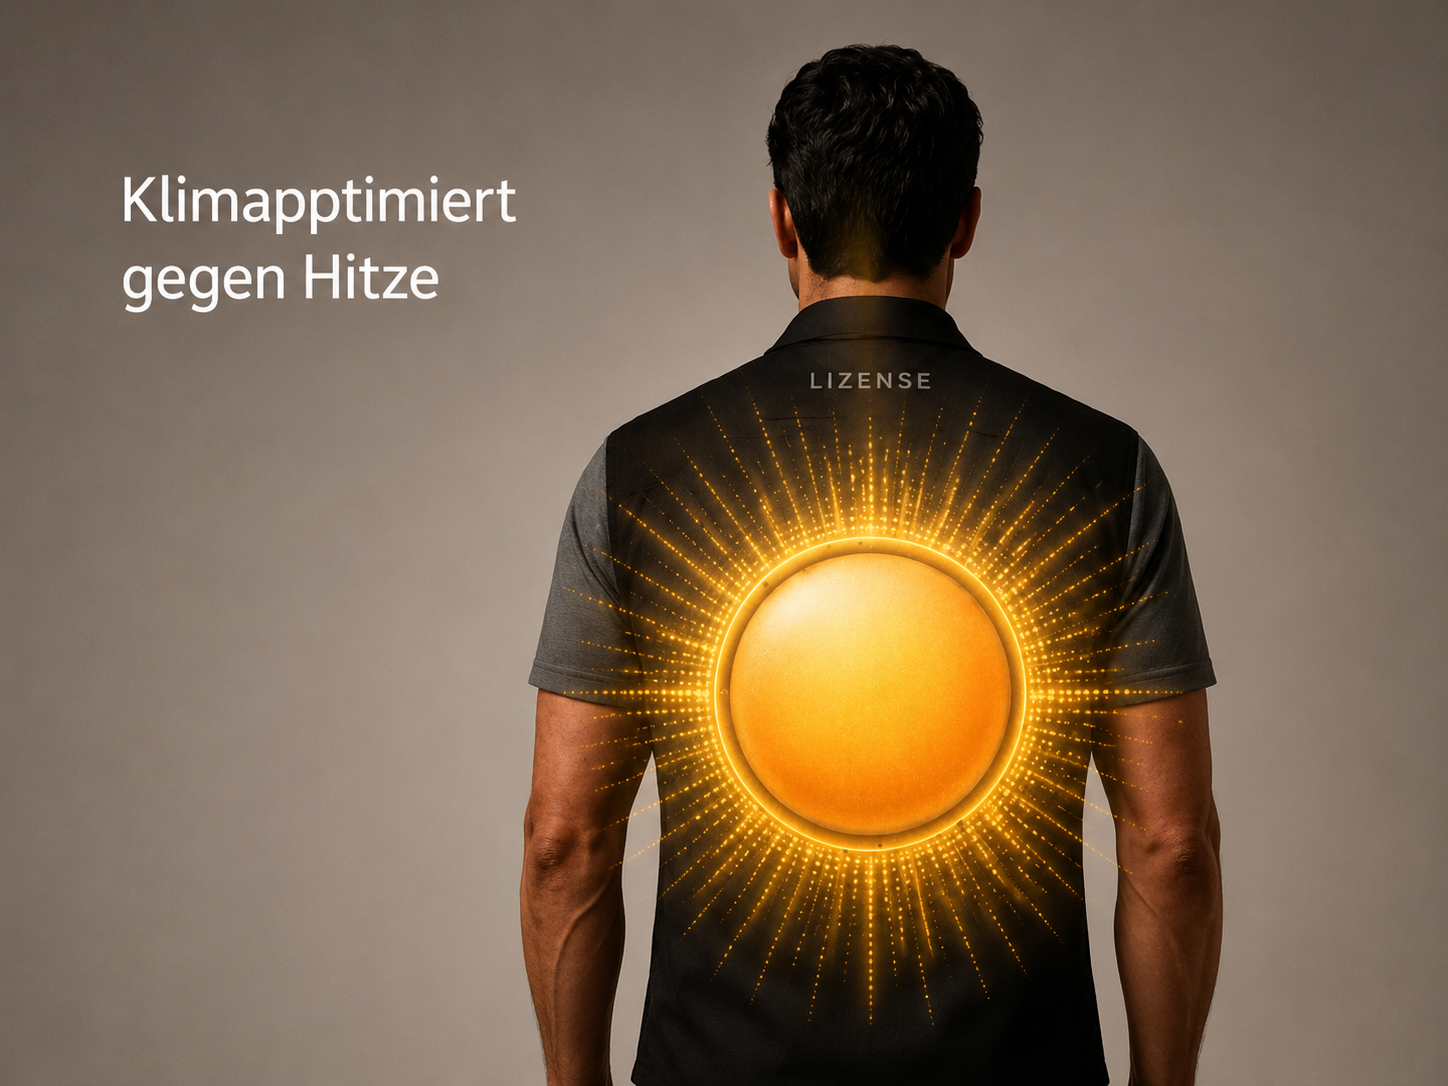
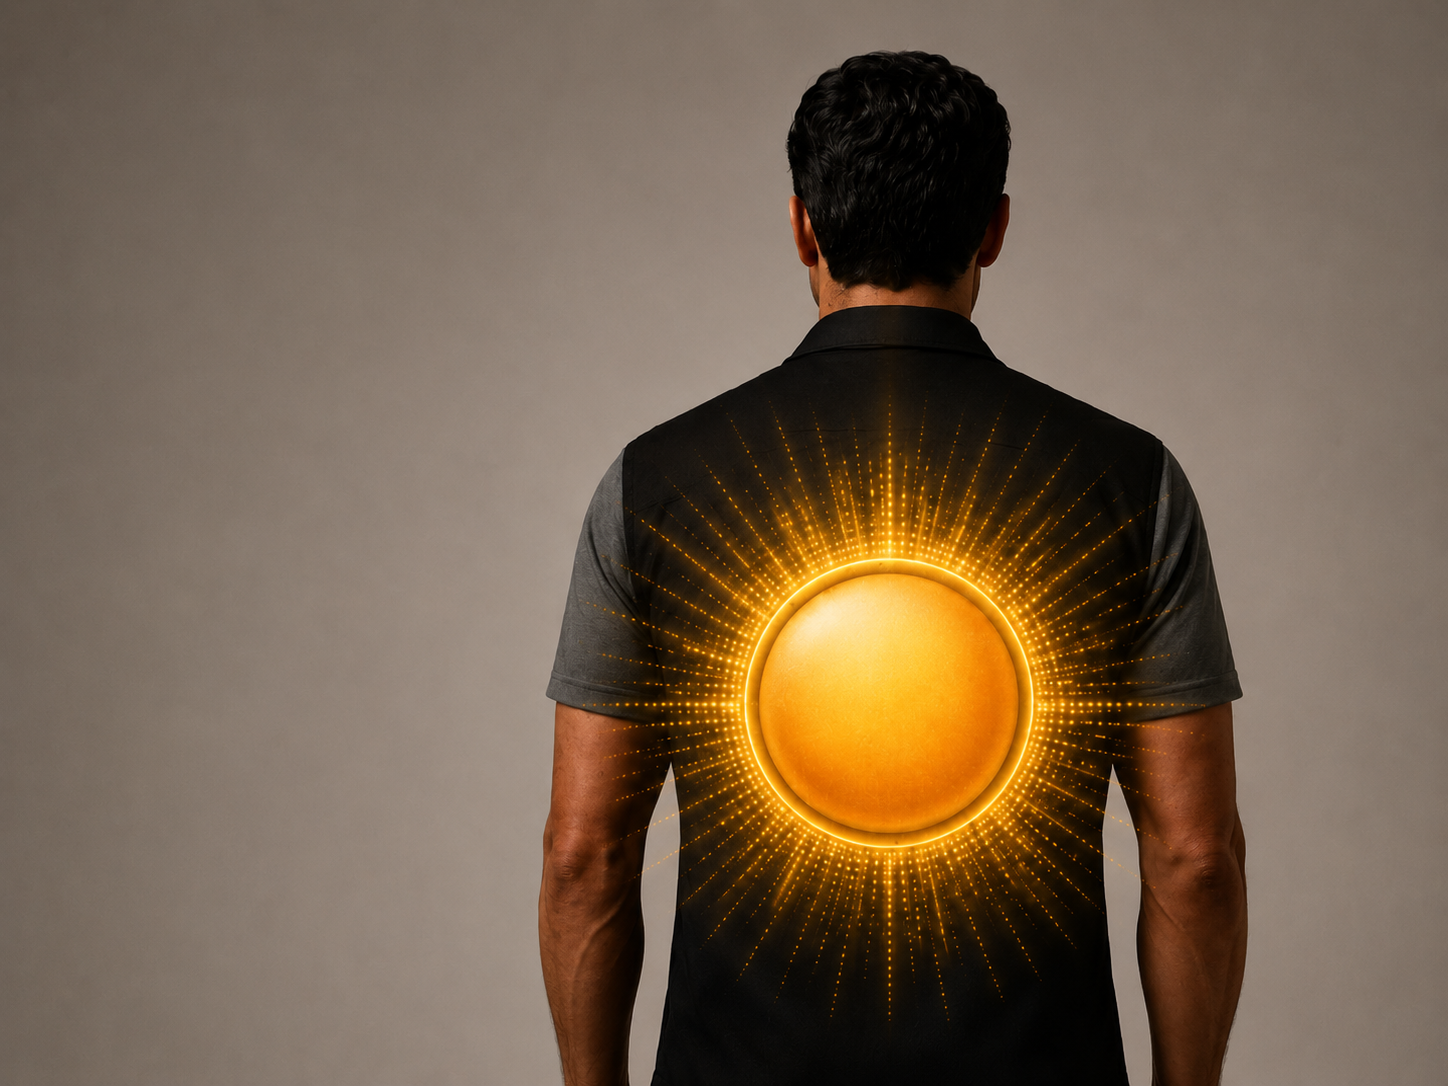
fixed image issue with translation

Changed region(s): [[0.3419, 0.0304, 0.8702, 1.0], [0.0622, 0.1519, 0.3729, 0.2127], [0.0622, 0.2431, 0.3108, 0.3039]]

diff --git a/styles.css b/styles.css
@@ -259,6 +259,63 @@ figure {
   object-position: center;
 }
 
+.sustainability-panel,
+.heat-panel {
+  isolation: isolate;
+}
+
+.sustainability-copy,
+.benefit-copy {
+  position: absolute;
+  top: clamp(18px, 4vw, 48px);
+  left: clamp(18px, 4vw, 54px);
+  z-index: 1;
+  display: grid;
+  gap: clamp(5px, 0.9vw, 12px);
+  width: min(36%, 270px);
+  color: #fffaf4;
+  text-shadow: 0 2px 18px rgba(23, 17, 15, 0.58);
+  text-transform: uppercase;
+}
+
+.heat-copy {
+  right: clamp(18px, 4vw, 54px);
+  left: auto;
+  width: min(42%, 300px);
+}
+
+.sustainability-copy::before,
+.benefit-copy::before {
+  content: "";
+  position: absolute;
+  inset: -18px -16px -20px;
+  z-index: -1;
+  background:
+    linear-gradient(135deg, rgba(23, 17, 15, 0.74), rgba(90, 6, 16, 0.24)),
+    rgba(23, 17, 15, 0.18);
+  border: 1px solid rgba(255, 250, 244, 0.34);
+  box-shadow: 0 20px 50px rgba(23, 17, 15, 0.24);
+  backdrop-filter: blur(8px);
+}
+
+.sustainability-copy__kicker,
+.benefit-copy__kicker {
+  color: #f0c76e;
+  font-family: Georgia, "Times New Roman", serif;
+  font-size: clamp(0.88rem, 1.9vw, 1.52rem);
+  font-style: italic;
+  font-weight: 700;
+  line-height: 0.95;
+  overflow-wrap: anywhere;
+}
+
+.sustainability-copy__stat,
+.benefit-copy__stat {
+  font-size: clamp(1.05rem, 2.85vw, 2.34rem);
+  font-weight: 950;
+  line-height: 0.92;
+}
+
 .campaign-slogan {
   display: grid;
   place-items: center;
@@ -607,6 +664,17 @@ figure {
 
   .benefit-panel {
     aspect-ratio: 4 / 3;
+  }
+
+  .sustainability-copy,
+  .benefit-copy {
+    top: clamp(18px, 6vw, 34px);
+    left: clamp(18px, 6vw, 34px);
+    width: min(42%, 230px);
+  }
+
+  .heat-copy {
+    right: auto;
   }
 
   .benefit-panel + .benefit-panel {

diff --git a/index.html b/index.html
@@ -58,11 +58,19 @@
         </figure>
 
         <section class="climate-panels" aria-label="Sustainability and climate benefits" data-i18n-aria-label="home.climate.aria">
-          <figure class="benefit-panel">
+          <figure class="benefit-panel sustainability-panel">
             <img src="images/sustainability.png" alt="Back view of Say Jackless shirt with earth artwork" data-i18n-alt="home.sustainability.alt">
+            <figcaption class="sustainability-copy">
+              <span class="sustainability-copy__kicker" data-i18n="home.sustainability.copy.kicker">Nachhaltigkeit</span>
+              <span class="sustainability-copy__stat" data-i18n="home.sustainability.copy.stat">25% weniger Stoff!</span>
+            </figcaption>
           </figure>
-          <figure class="benefit-panel">
+          <figure class="benefit-panel heat-panel">
             <img src="images/climate.png" alt="Back view of Say Jackless shirt with glowing sun artwork" data-i18n-alt="home.climate.alt">
+            <figcaption class="benefit-copy heat-copy">
+              <span class="benefit-copy__kicker" data-i18n="home.climate.copy.kicker">Klimaoptimiert</span>
+              <span class="benefit-copy__stat" data-i18n="home.climate.copy.stat">gegen Hitze</span>
+            </figcaption>
           </figure>
         </section>
 

diff --git a/script.js b/script.js
@@ -38,8 +38,12 @@ const translations = {
     "home.climate.aria": "Nachhaltigkeits- und Klimavorteile",
     "home.sustainability.alt":
       "Rückansicht eines Say Jackless Shirts mit Erdmotiv",
+    "home.sustainability.copy.kicker": "Nachhaltigkeit",
+    "home.sustainability.copy.stat": "25% weniger Stoff!",
     "home.climate.alt":
       "Rückansicht eines Say Jackless Shirts mit leuchtendem Sonnenmotiv",
+    "home.climate.copy.kicker": "Klimaoptimiert",
+    "home.climate.copy.stat": "gegen Hitze",
     "home.slogan": "Lizenz für a better clima.",
     "footer.brand": "License Say Jackless",
     "footer.campaign": "Klimabewusste Menswear-Kampagne.",
@@ -144,8 +148,12 @@ const translations = {
     "home.climate.aria": "Sustainability and climate benefits",
     "home.sustainability.alt":
       "Back view of Say Jackless shirt with earth artwork",
+    "home.sustainability.copy.kicker": "Sustainability",
+    "home.sustainability.copy.stat": "25% less fabric!",
     "home.climate.alt":
       "Back view of Say Jackless shirt with glowing sun artwork",
+    "home.climate.copy.kicker": "Climate-optimized",
+    "home.climate.copy.stat": "against heat",
     "home.slogan": "License for a better clima.",
     "footer.brand": "License Say Jackless",
     "footer.campaign": "Climate-minded menswear campaign.",
